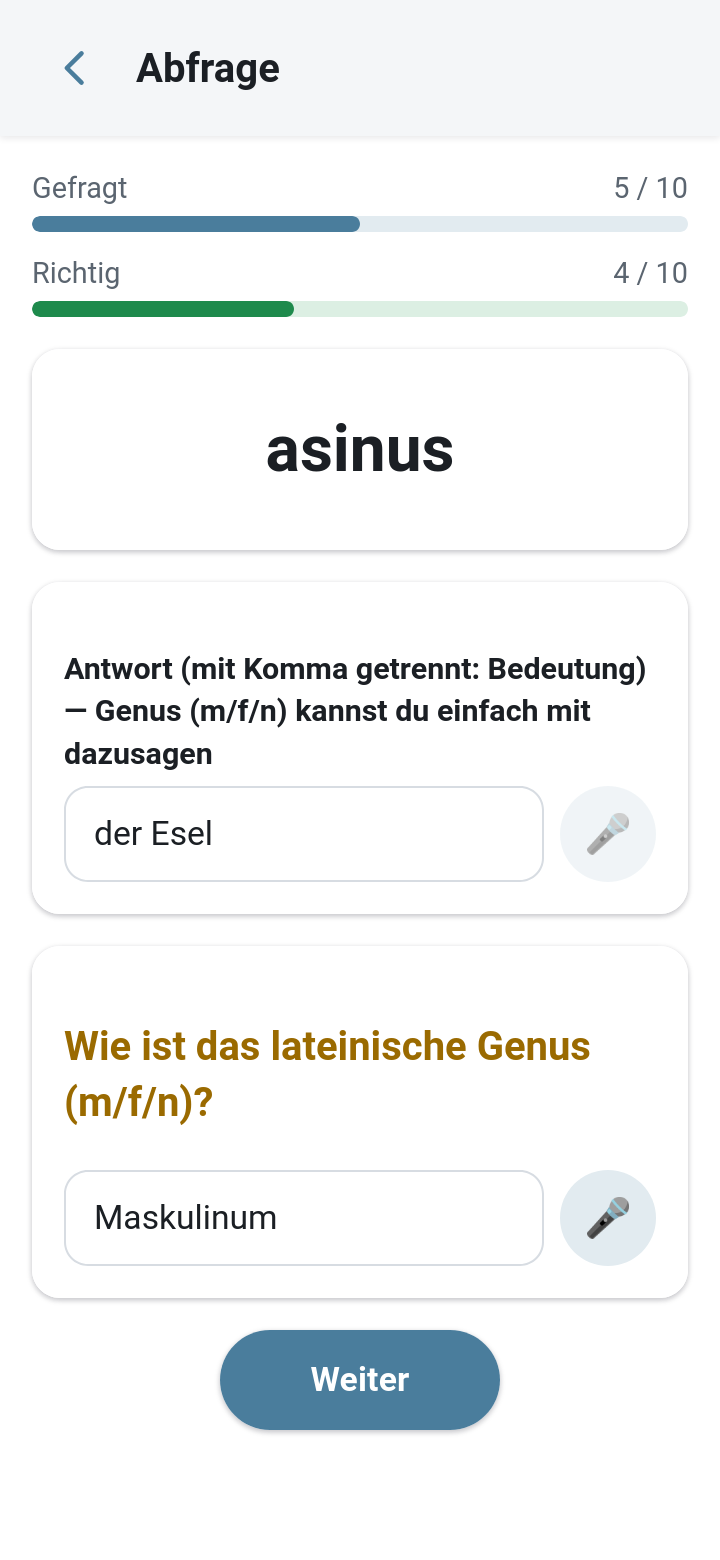
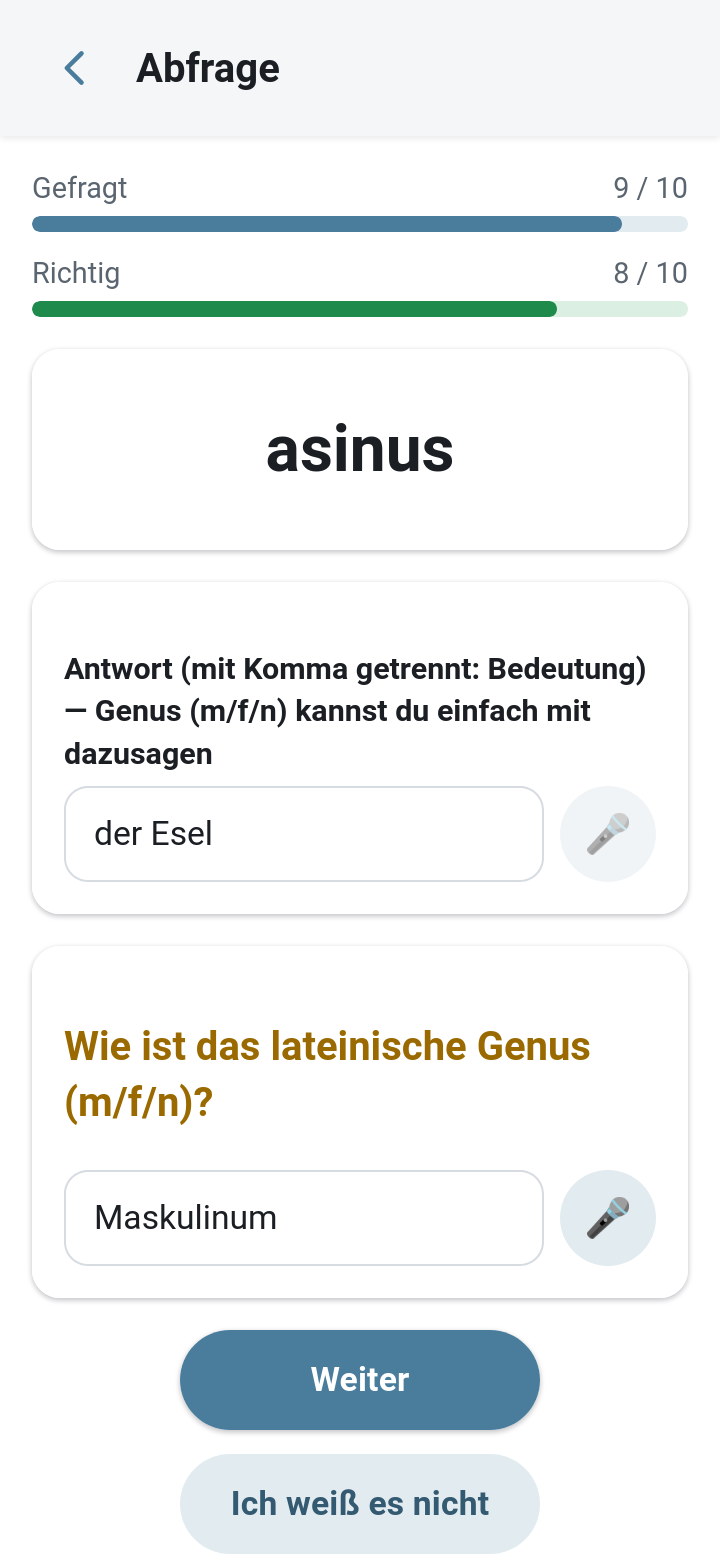
Feat: Check button is now disabled while the answer is empty, added new button to give up explicitly.

Changed region(s): [[0.2444, 0.8308, 0.7639, 1.0], [0.4889, 0.0923, 0.8861, 0.1846], [0.3972, 0.1846, 0.7639, 0.2154]]

diff --git a/www/js/abfrage.js b/www/js/abfrage.js
@@ -346,28 +346,60 @@ function rueckfrageAnzeigen(vokabel, abfrageFelder, fehlendeListe, bisherigerRoh
 
   container.appendChild(karte);
 
-  const weiterButton = document.createElement('button');
-  weiterButton.className = 'primaer';
-  weiterButton.textContent = 'Weiter';
-  weiterButton.addEventListener('click', () => (
-    antwortPruefen(vokabel, abfrageFelder, eingabe, weiterButton, container, bisherigerRohtext, fehlendeListe[0])
+  const knoepfe = antwortKnoepfe(container, eingabe, 'Weiter', () => (
+    antwortPruefen(vokabel, abfrageFelder, eingabe, knoepfe, container, bisherigerRohtext, fehlendeListe[0])
   ));
-  container.appendChild(weiterButton);
-  eingabe.waehrendAufnahmeGesperrt.push(weiterButton);
-
-  eingabe.addEventListener('keydown', ev => {
-    // preventDefault: sonst landet derselbe Tastendruck nach dem Prüfen
-    // beim dann fokussierten "Weiter" und überspringt das Ergebnis.
-    if (ev.key === 'Enter') {
-      ev.preventDefault();
-      weiterButton.click();
-    }
-  });
   eingabeFokussieren(eingabe);
 }
 
+// Primärer Knopf ("Prüfen" bzw. "Weiter" bei einer Rückfrage) und darunter
+// "Ich weiß es nicht". Der primäre Knopf ist gesperrt, solange das Feld leer
+// ist - ein versehentliches Tippen darauf ohne Antwort zählte sonst als
+// falsch. Wer die Antwort nicht weiß, sagt das mit dem zweiten Knopf
+// ausdrücklich (zählt wie eine leere Antwort: falsch, Lösung wird gezeigt).
+// Gibt die Knopfgruppe zurück; antwortPruefen() blendet sie nach dem Prüfen
+// aus.
+function antwortKnoepfe(container, eingabe, beschriftung, pruefen) {
+  const knoepfe = document.createElement('div');
+  knoepfe.className = 'antwort-knoepfe';
+
+  const pruefenButton = document.createElement('button');
+  pruefenButton.className = 'primaer';
+  pruefenButton.textContent = beschriftung;
+  pruefenButton.addEventListener('click', pruefen);
+
+  const weissNichtButton = document.createElement('button');
+  weissNichtButton.textContent = 'Ich weiß es nicht';
+  weissNichtButton.addEventListener('click', () => {
+    eingabe.value = '';
+    pruefen();
+  });
+
+  knoepfe.append(pruefenButton, weissNichtButton);
+  container.appendChild(knoepfe);
+  eingabe.waehrendAufnahmeGesperrt.push(pruefenButton, weissNichtButton);
+
+  // Auch nach der Spracheingabe: mitMikrofon() löst danach ein input-Event
+  // aus, nachdem es die gesperrten Knöpfe wieder freigegeben hat.
+  const sperreWennLeer = () => { pruefenButton.disabled = eingabe.value.trim() === ''; };
+  eingabe.addEventListener('input', sperreWennLeer);
+  sperreWennLeer();
+
+  eingabe.addEventListener('keydown', ev => {
+    // preventDefault: sonst landet derselbe Tastendruck nach dem Prüfen
+    // beim dann fokussierten "Weiter" und überspringt das Ergebnis. Bei
+    // leerem Feld tut Enter nichts (click() auf einen gesperrten Knopf
+    // wird ignoriert).
+    if (ev.key === 'Enter') {
+      ev.preventDefault();
+      pruefenButton.click();
+    }
+  });
+  return knoepfe;
+}
+
 function antwortPruefen(
-  vokabel, abfrageFelder, eingabe, pruefenButton, container, bisherigerRohtext = '', beantworteterEintrag = null
+  vokabel, abfrageFelder, eingabe, knoepfe, container, bisherigerRohtext = '', beantworteterEintrag = null
 ) {
   const eigeneEingabe = eingabe.value.trim();
   const rohtext = kombiniereRohtext(beantworteterEintrag, bisherigerRohtext, eigeneEingabe);
@@ -377,7 +409,7 @@ function antwortPruefen(
 
   eingabe.disabled = true;
   if (eingabe.mikrofonKnopf) eingabe.mikrofonKnopf.disabled = true;
-  pruefenButton.hidden = true;
+  knoepfe.hidden = true;
 
   // Eine komplett leere Eingabe (weder jetzt noch beim ursprünglichen
   // Prüfen etwas eingetragen) löst keine weitere Rückfrage aus - sonst
@@ -533,21 +565,9 @@ function renderKarte() {
 
   container.appendChild(formular);
 
-  const pruefenButton = document.createElement('button');
-  pruefenButton.className = 'primaer';
-  pruefenButton.textContent = 'Prüfen';
-  pruefenButton.addEventListener('click', () => antwortPruefen(vokabel, abfrageFelder, eingabe, pruefenButton, container));
-  container.appendChild(pruefenButton);
-  eingabe.waehrendAufnahmeGesperrt.push(pruefenButton);
-
-  eingabe.addEventListener('keydown', ev => {
-    // preventDefault: sonst landet derselbe Tastendruck nach dem Prüfen
-    // beim dann fokussierten "Weiter" und überspringt das Ergebnis.
-    if (ev.key === 'Enter') {
-      ev.preventDefault();
-      pruefenButton.click();
-    }
-  });
+  const knoepfe = antwortKnoepfe(container, eingabe, 'Prüfen', () => (
+    antwortPruefen(vokabel, abfrageFelder, eingabe, knoepfe, container)
+  ));
   eingabeFokussieren(eingabe);
 }
 

diff --git a/www/js/spracheingabe.js b/www/js/spracheingabe.js
@@ -80,7 +80,6 @@ function mikrofonKnopfErstellen(input) {
       const ergebnis = await erkenneSprache(input.value);
       if (ergebnis !== null) {
         input.value = ergebnis;
-        input.dispatchEvent(new Event('input', { bubbles: true }));
         eingabeFokussieren(input);
       }
     } catch (fehler) {
@@ -88,6 +87,9 @@ function mikrofonKnopfErstellen(input) {
       alert(`Spracheingabe hat nicht funktioniert: ${fehler?.message || fehler}`);
     } finally {
       gesperrt.forEach(knopf => { knopf.disabled = false; });
+      // Erst nach dem Freigeben, damit Aufrufer den Zustand ihrer Knöpfe
+      // neu bestimmen können (z.B. "Prüfen" bei leerem Feld gesperrt).
+      input.dispatchEvent(new Event('input', { bubbles: true }));
       button.disabled = false;
       button.classList.remove('nimmt-auf');
       button.textContent = '🎤';

diff --git a/www/css/style.css b/www/css/style.css
@@ -502,6 +502,19 @@ details .karte {
   min-width: 140px;
 }
 
+/* "Prüfen" (bzw. "Weiter" bei einer Rückfrage) und darunter "Ich weiß es
+   nicht": untereinander, mittig. */
+.antwort-knoepfe:not([hidden]) {
+  display: flex;
+  flex-direction: column;
+  align-items: center;
+  gap: 12px;
+}
+
+.antwort-knoepfe button {
+  min-width: 180px;
+}
+
 /* Knopfreihe nach dem Prüfen ("Als richtig werten" + "Weiter"): mittig,
    bricht auf schmalen Bildschirmen um. */
 .abfrage-knoepfe {
